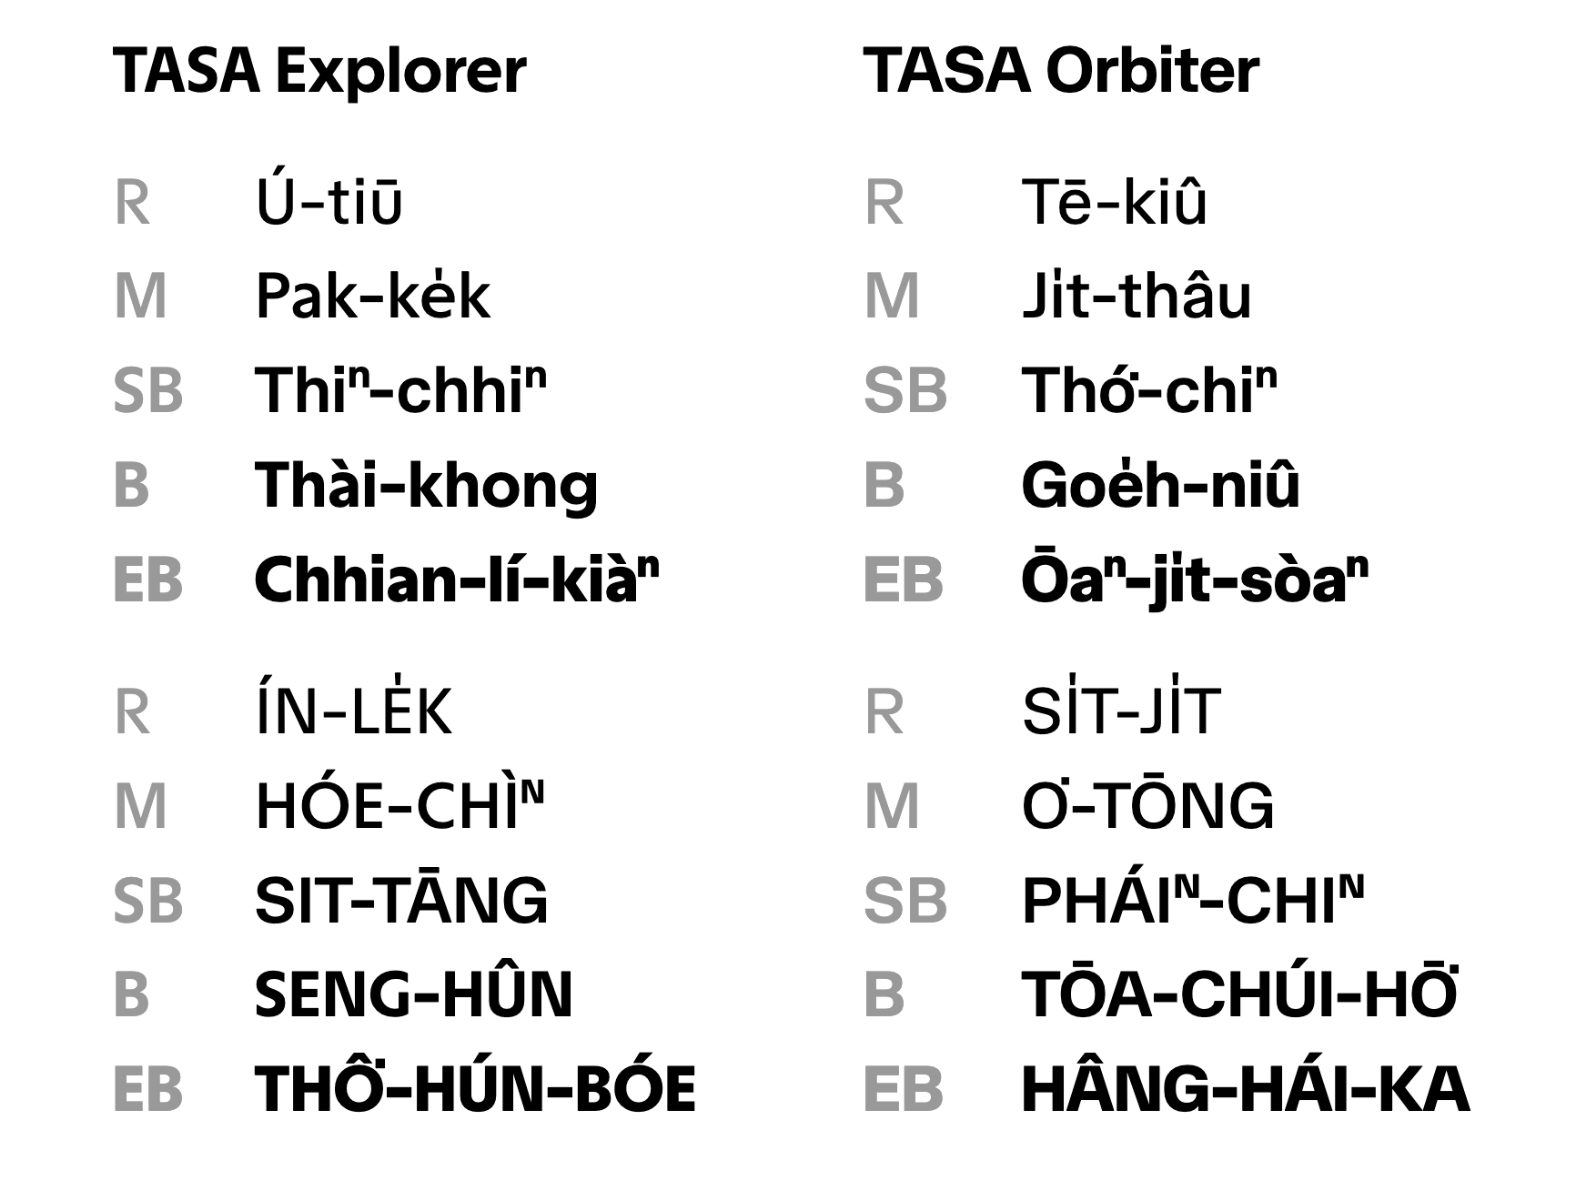
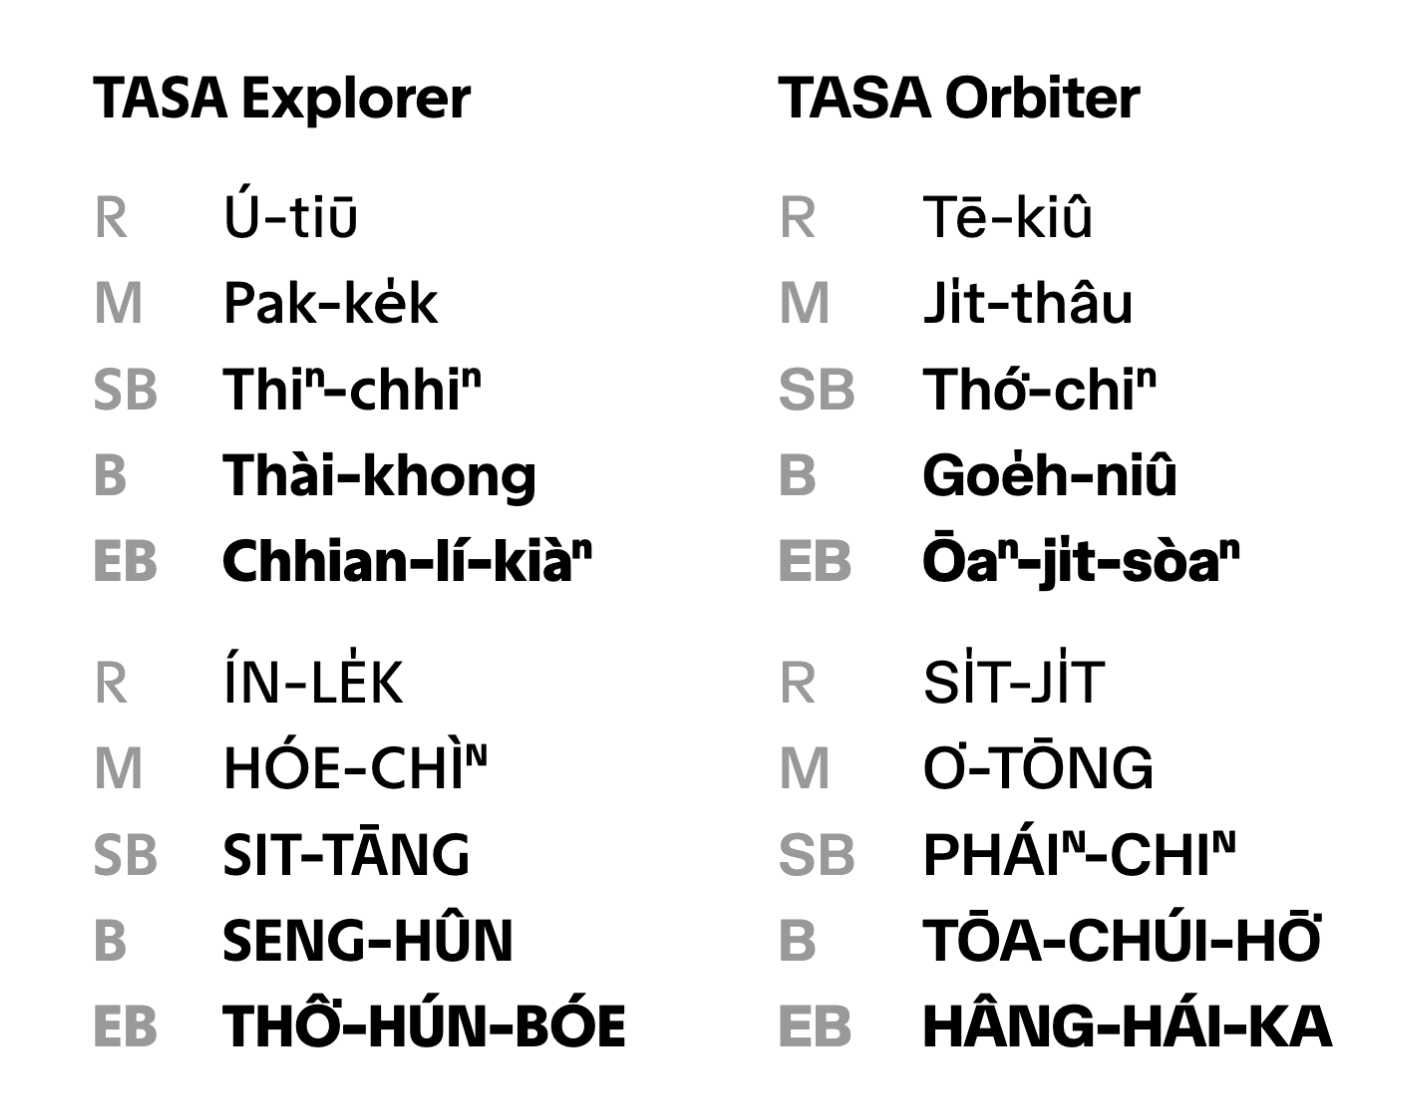
更新網站內容

diff --git a/language_type/bilingual/index.html b/language_type/bilingual/index.html
@@ -67,7 +67,7 @@ https://cdn.jsdelivr.net/npm/chiron-hei-hk-webfont-truetype@2.5.25/css/vf.min.cs
 
 
 
-<img src="/images/9.jpg" alt="介紹">
+<img src="/images/1.jpg" alt="介紹">
 
         
         <div class="text">
